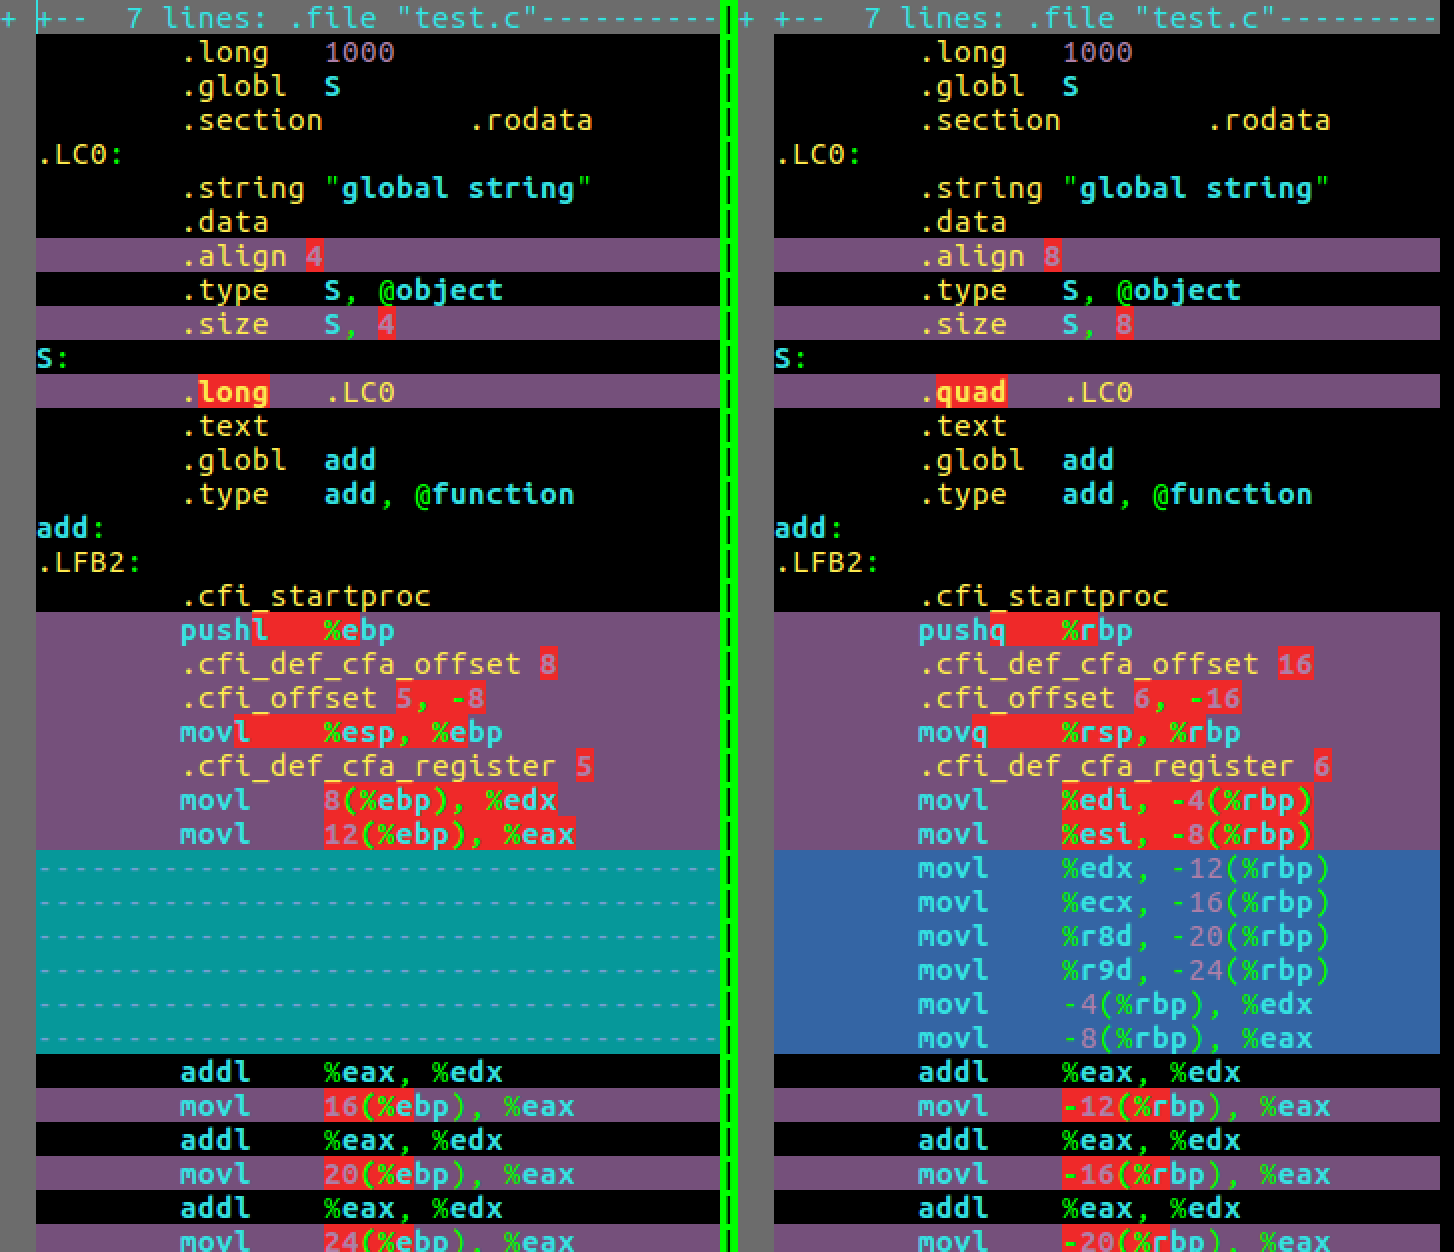
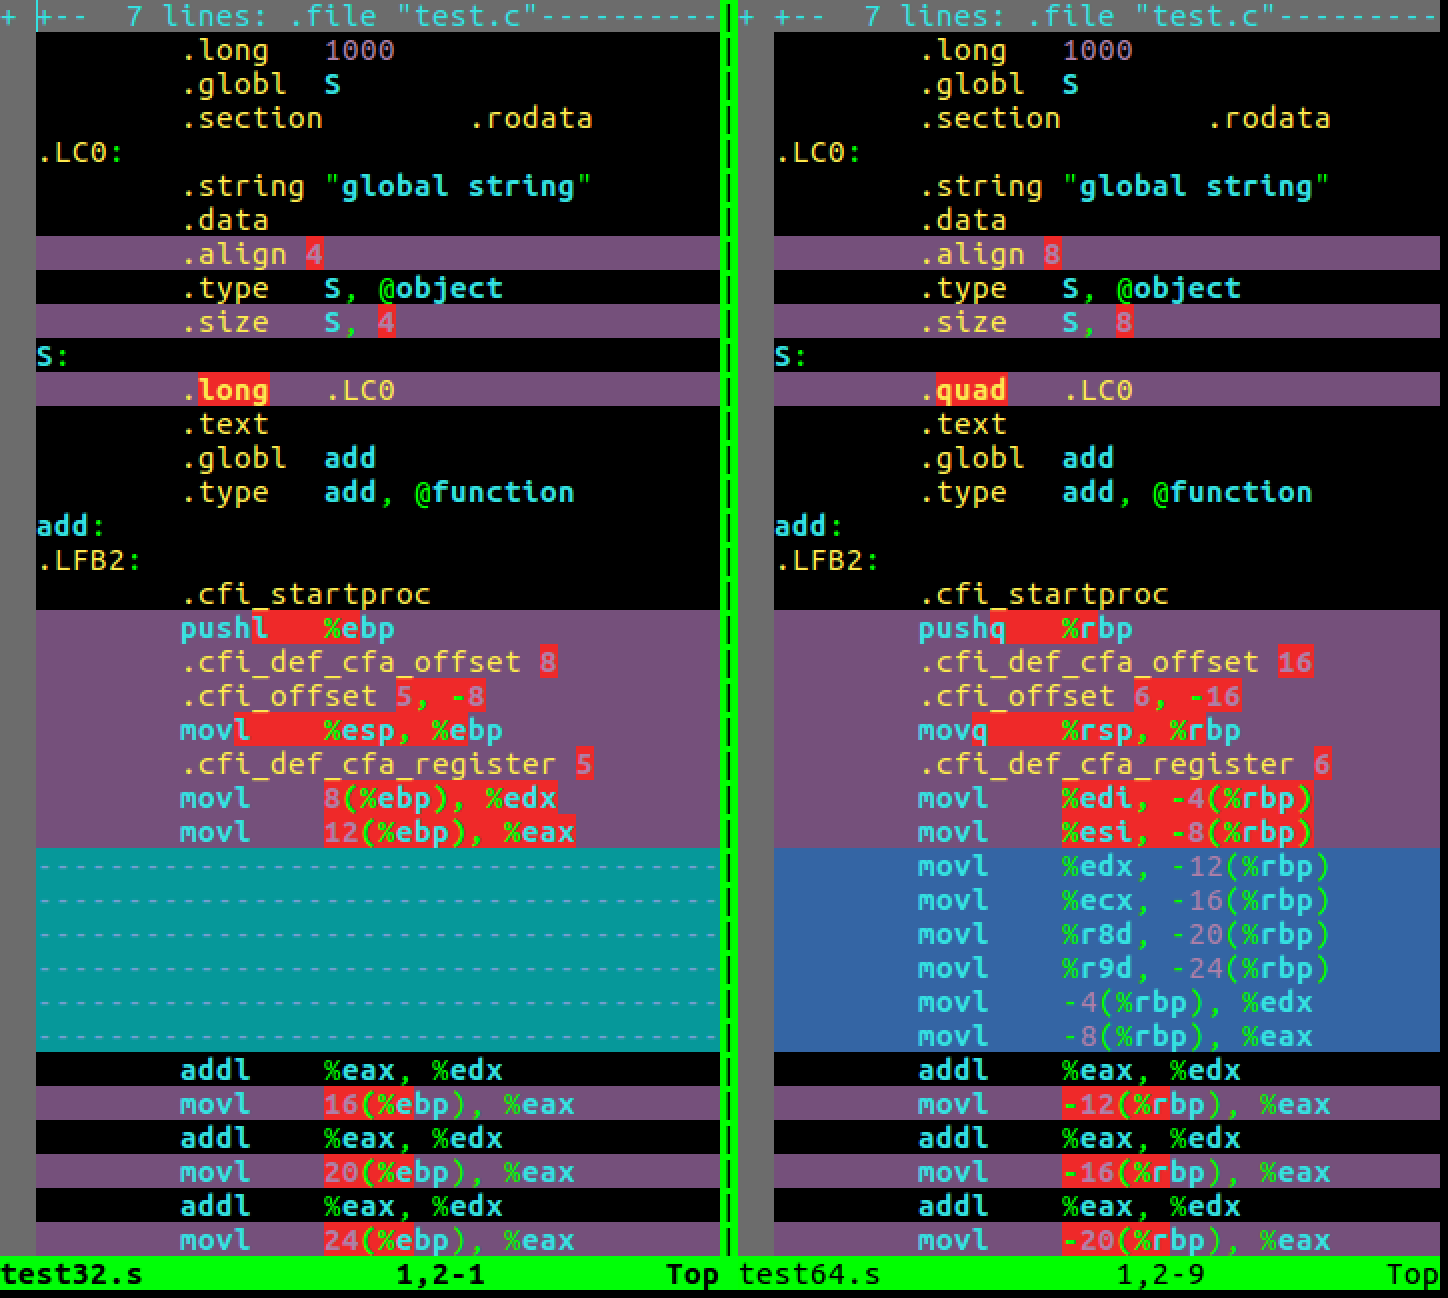
函数调用

diff --git a/_posts/2018-06-06-linux-c-asm-3-20180606.md b/_posts/2018-06-06-linux-c-asm-3-20180606.md
@@ -1,0 +1,220 @@
+---
+layout: post
+title: Linux-C逆向工程基础：函数调用分析
+categories: 深入学习之逆向工程 c/c++之指针与内存
+tags: linux c c++ gcc 汇编 逆向工程 Linux-C逆向工程基础
+---
+
+在C语言程序中main函数内部调用ADD，ADD函数内部调用add
+
+```c
+int add(int a, int b, int c, int d, int e, int f, int g, int h, int i)
+{
+    return a + b + c + d + e + f + g + h + i;
+}
+
+int ADD(int a, int b, int c, int d, int e, int f, int g, int h, int i)
+{
+    return add(a, b, c, d, e, f, g, h, i);
+}
+
+int main()
+{
+    ...
+
+    int c = ADD(1, 2, 3, 4, 5, 6, 7, 8, 9);
+
+    c = c + c;
+
+    return 0;
+}
+```
+
+下面我们就分别看看32位汇编和64位汇编中调用函数的实现
+
+## 32位汇编中的函数调用
+
+main函数中调用ADD函数的汇编代码如下
+
+```
+.L9:
+	subl	$12, %esp
+
+	; 所有的参数压栈
+	pushl	$9
+	pushl	$8
+	pushl	$7
+	pushl	$6
+	pushl	$5
+	pushl	$4
+	pushl	$3
+	pushl	$2
+	pushl	$1
+
+	; 调用ADD函数
+	call	ADD
+	addl	$48, %esp
+
+	; 返回值在eax寄存器
+	; -24(%ebp)是临时变量c的内存地址
+	; 把寄存器中的值写回到c中
+	movl	%eax, -24(%ebp)
+	; 把c加载到寄存器eax中
+	movl	-24(%ebp), %eax
+
+	; c = c + c
+	addl	%eax, %eax
+	; 寄存器中的c值再写回到栈上
+	movl	%eax, -24(%ebp)
+```
+
+ADD函数中调用add函数的汇编代码如下
+
+```
+ADD:
+.LFB3:
+	.cfi_startproc
+	; 保存调用者的ebp
+	pushl	%ebp
+	.cfi_def_cfa_offset 8
+	.cfi_offset 5, -8
+
+	; 把当前的esp作为自己的ebp
+	movl	%esp, %ebp
+	.cfi_def_cfa_register 5
+
+	; main调用ADD的时候把参数压到栈上了，直接通过比如40(%ebp)的方式从栈上获取这些参数
+	; 调用add之前也需要把这些参数压栈
+	; 所以把main传过来的在栈上的参数，再次压栈
+	pushl	40(%ebp)
+	pushl	36(%ebp)
+	pushl	32(%ebp)
+	pushl	28(%ebp)
+	pushl	24(%ebp)
+	pushl	20(%ebp)
+	pushl	16(%ebp)
+	pushl	12(%ebp)
+	pushl	8(%ebp)
+
+	; 调用函数
+	call	add
+
+	; 9个参数，每个参数4字节，一共是32字节
+	; 调用结束后需要弹栈
+	addl	$36, %esp
+
+	leave
+	.cfi_restore 5
+	.cfi_def_cfa 4, 4
+	ret
+	.cfi_endproc
+```
+
+>在32位机器上，PUSH指令是把内容压栈，同时将ESP寄存器的值减四（压栈时，栈是由高地址向低地址变化的）
+
+>对应的，在32位机器上，POP指令时把栈上的内容弹出，同时将ESP寄存器的值加四
+
+## 64位汇编中的函数调用
+
+main函数中调用ADD函数的汇编代码如下
+
+```
+.L9:
+	subq	$8, %rsp
+
+	; 调用的方式是ADD(1, 2, 3, 4, 5, 6, 7, 8, 9)
+	; 汇编中传参是从右往左传
+
+	; 后面的参数还是通过压栈的方式传参
+	pushq	$9
+	pushq	$8
+	pushq	$7
+
+	; 前6个参数用下面这些寄存器来传参，因为x64有更多的寄存器，而x86寄存器有限
+	; 所以x86都使用栈传参，而x64可以借用一些“多余”的寄存器，实现更快的传参
+	movl	$6, %r9d
+	movl	$5, %r8d
+	movl	$4, %ecx
+	movl	$3, %edx
+	movl	$2, %esi
+	movl	$1, %edi
+
+	; 调用ADD函数
+	call	ADD
+
+	; 函数调用开始的时候有 subq	$8, %rsp
+	; 然后分别 push进三个参数，以为是64位，所以每个是8字节
+	; 所以一共是32字节，最后在调用完函数后，需要 addq	$32, %rsp 弹栈
+	addq	$32, %rsp
+
+	; ADD函数的返回值保存在eax寄存器中
+	; c的地址是 -20(%rbp)，现在把寄存器中的返回值拷贝到栈上的c变量
+	movl	%eax, -20(%rbp)
+	movl	-20(%rbp), %eax
+	addl	%eax, %eax
+	movl	%eax, -20(%rbp)
+```
+
+ADD函数中调用add函数的汇编代码如下
+
+```
+ADD:
+.LFB3:
+	.cfi_startproc
+	; 保存调用者的ebp
+	pushq	%rbp
+	.cfi_def_cfa_offset 16
+	.cfi_offset 6, -16
+
+	; 把当前的esp作为自己的ebp
+	movq	%rsp, %rbp
+	.cfi_def_cfa_register 6
+
+	subq	$24, %rsp
+
+	; main调用ADD的时候，前6个参数分别放到edi、esi、edx、ecx、r8d、r9d中传过来
+	; 在ADD中，先把这些寄存器中的参数取出来放到栈上
+	movl	%edi, -4(%rbp)
+	movl	%esi, -8(%rbp)
+	movl	%edx, -12(%rbp)
+	movl	%ecx, -16(%rbp)
+	movl	%r8d, -20(%rbp)
+	movl	%r9d, -24(%rbp)
+
+	; 调用add函数也要传参，这些在ADD栈上的参数还是要先放到对应的寄存器上传给add
+	movl	-24(%rbp), %r9d
+	movl	-20(%rbp), %r8d
+	movl	-16(%rbp), %ecx
+	movl	-12(%rbp), %edx
+	movl	-8(%rbp), %esi
+	movl	-4(%rbp), %eax
+
+	; 剩下的三个参数，main是直接压在栈上传给ADD的
+	; ADD也需要追额从栈上取这些参数
+	; 分别从栈上取出来值放到edi寄存器
+	; 然后再把edi寄存器的值压栈即可
+	movl	32(%rbp), %edi
+	pushq	%rdi
+	movl	24(%rbp), %edi
+	pushq	%rdi
+	movl	16(%rbp), %edi
+	pushq	%rdi
+
+	movl	%eax, %edi
+
+	; 调用函数add
+	call	add
+
+	; add调用完成后，弹栈
+	addq	$24, %rsp
+	leave
+	.cfi_def_cfa 7, 8
+
+	; 返回值
+	ret
+	.cfi_endproc
+```
+
+>在64位机器上，PUSH指令是把内容压栈，同时将RSP寄存器的值减八（压栈时，栈是由高地址向低地址变化的）
+
+>对应的，在64位机器上，POP指令时把栈上的内容弹出，同时将RSP寄存器的值加八

diff --git a/_posts/2018-06-06-linux-c-asm-1-20180606.md b/_posts/2018-06-06-linux-c-asm-1-20180606.md
@@ -32,7 +32,7 @@ int main()
     //局部变量
     char str[8];
     int i = 0;
-    
+
     //循环
     for(i=0; i<7; i++){
         str[i] = 'a';
@@ -49,6 +49,8 @@ int main()
 
     //函数调用
     int c = ADD(1, 2, 3, 4, 5, 6, 7, 8, 9);
+
+    c = c + c;
 
     return 0;
 }
@@ -209,6 +211,9 @@ main:
 	pushl	$1
 	call	ADD
 	addl	$48, %esp
+	movl	%eax, -24(%ebp)
+	movl	-24(%ebp), %eax
+	addl	%eax, %eax
 	movl	%eax, -24(%ebp)
 	movl	$0, %eax
 	movl	-12(%ebp), %ecx
@@ -389,6 +394,9 @@ main:
 	movl	$1, %edi
 	call	ADD
 	addq	$32, %rsp
+	movl	%eax, -20(%rbp)
+	movl	-20(%rbp), %eax
+	addl	%eax, %eax
 	movl	%eax, -20(%rbp)
 	movl	$0, %eax
 	movq	-8(%rbp), %rdx
